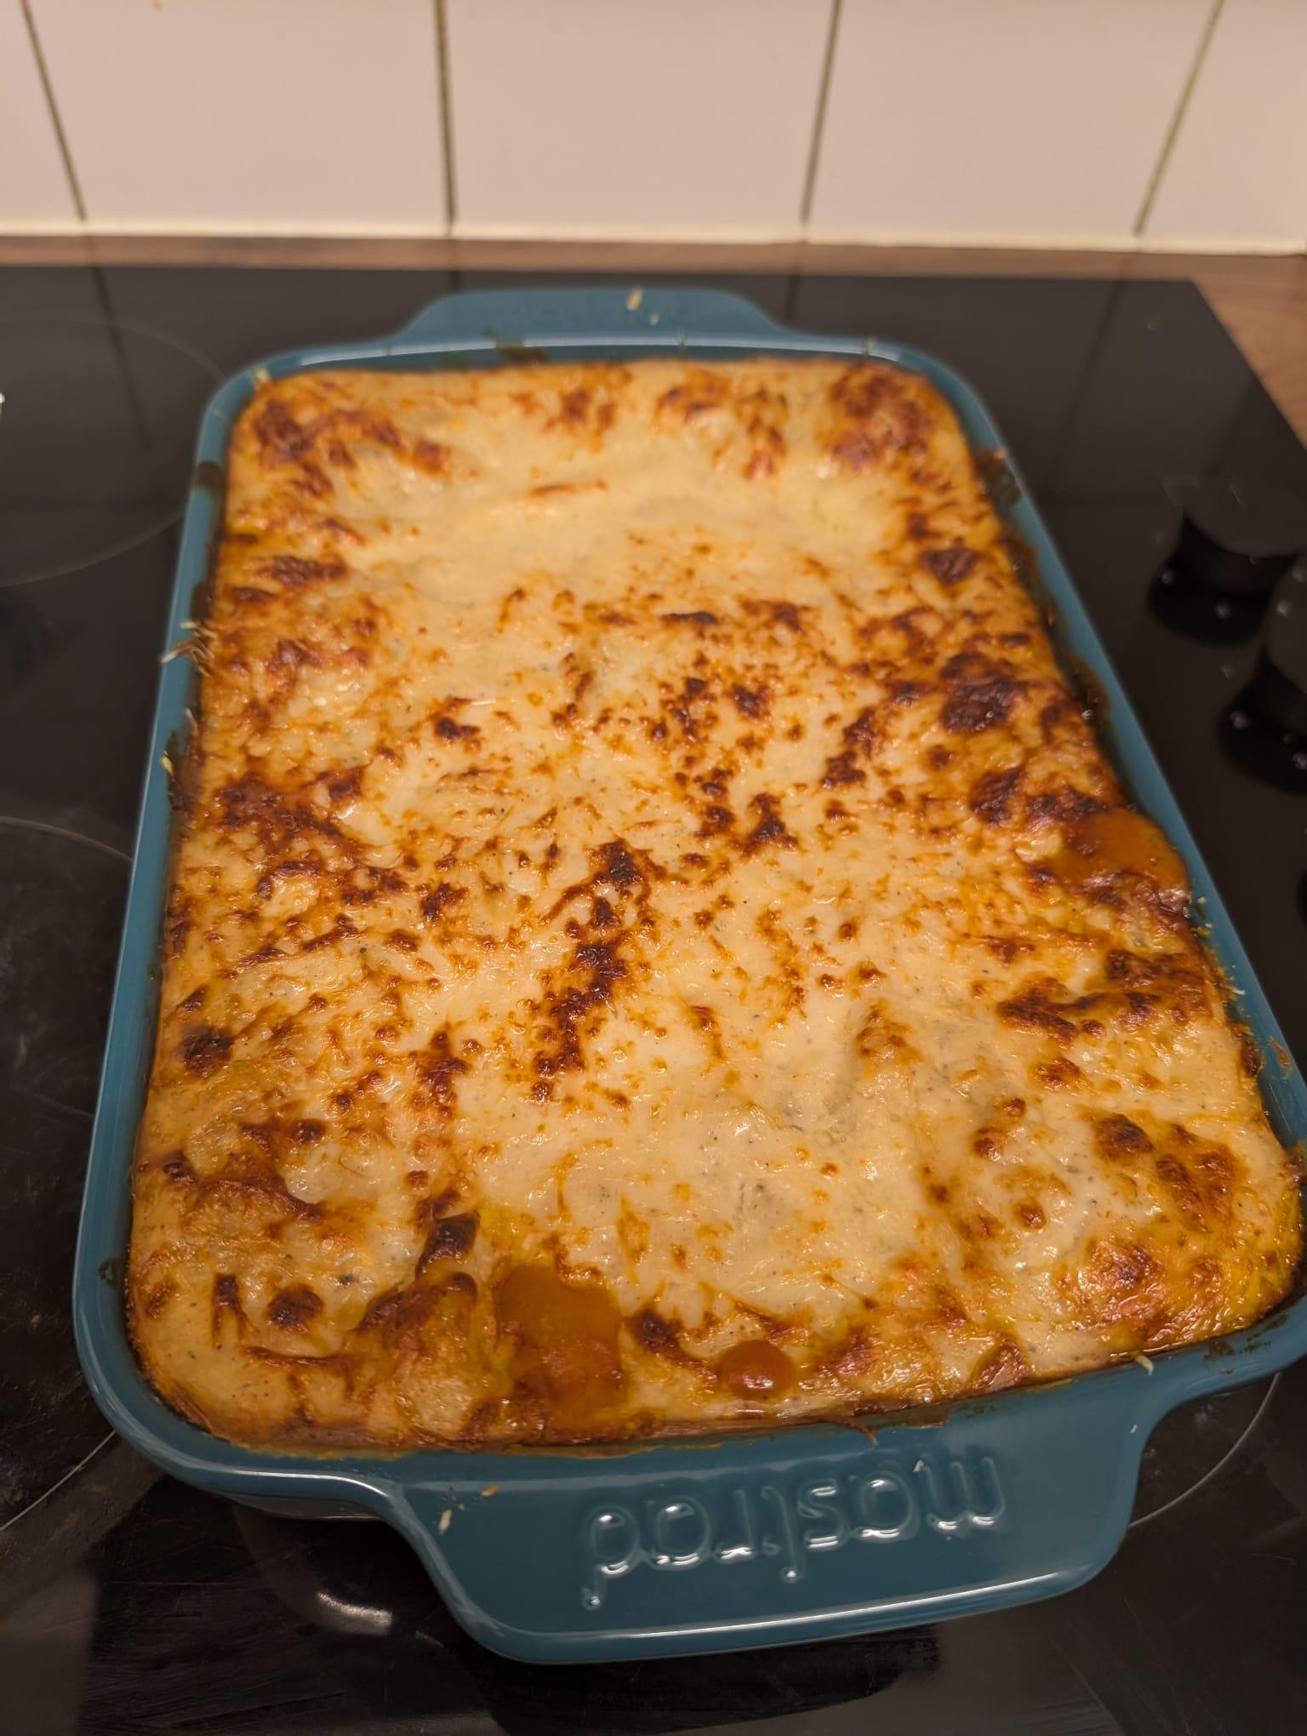
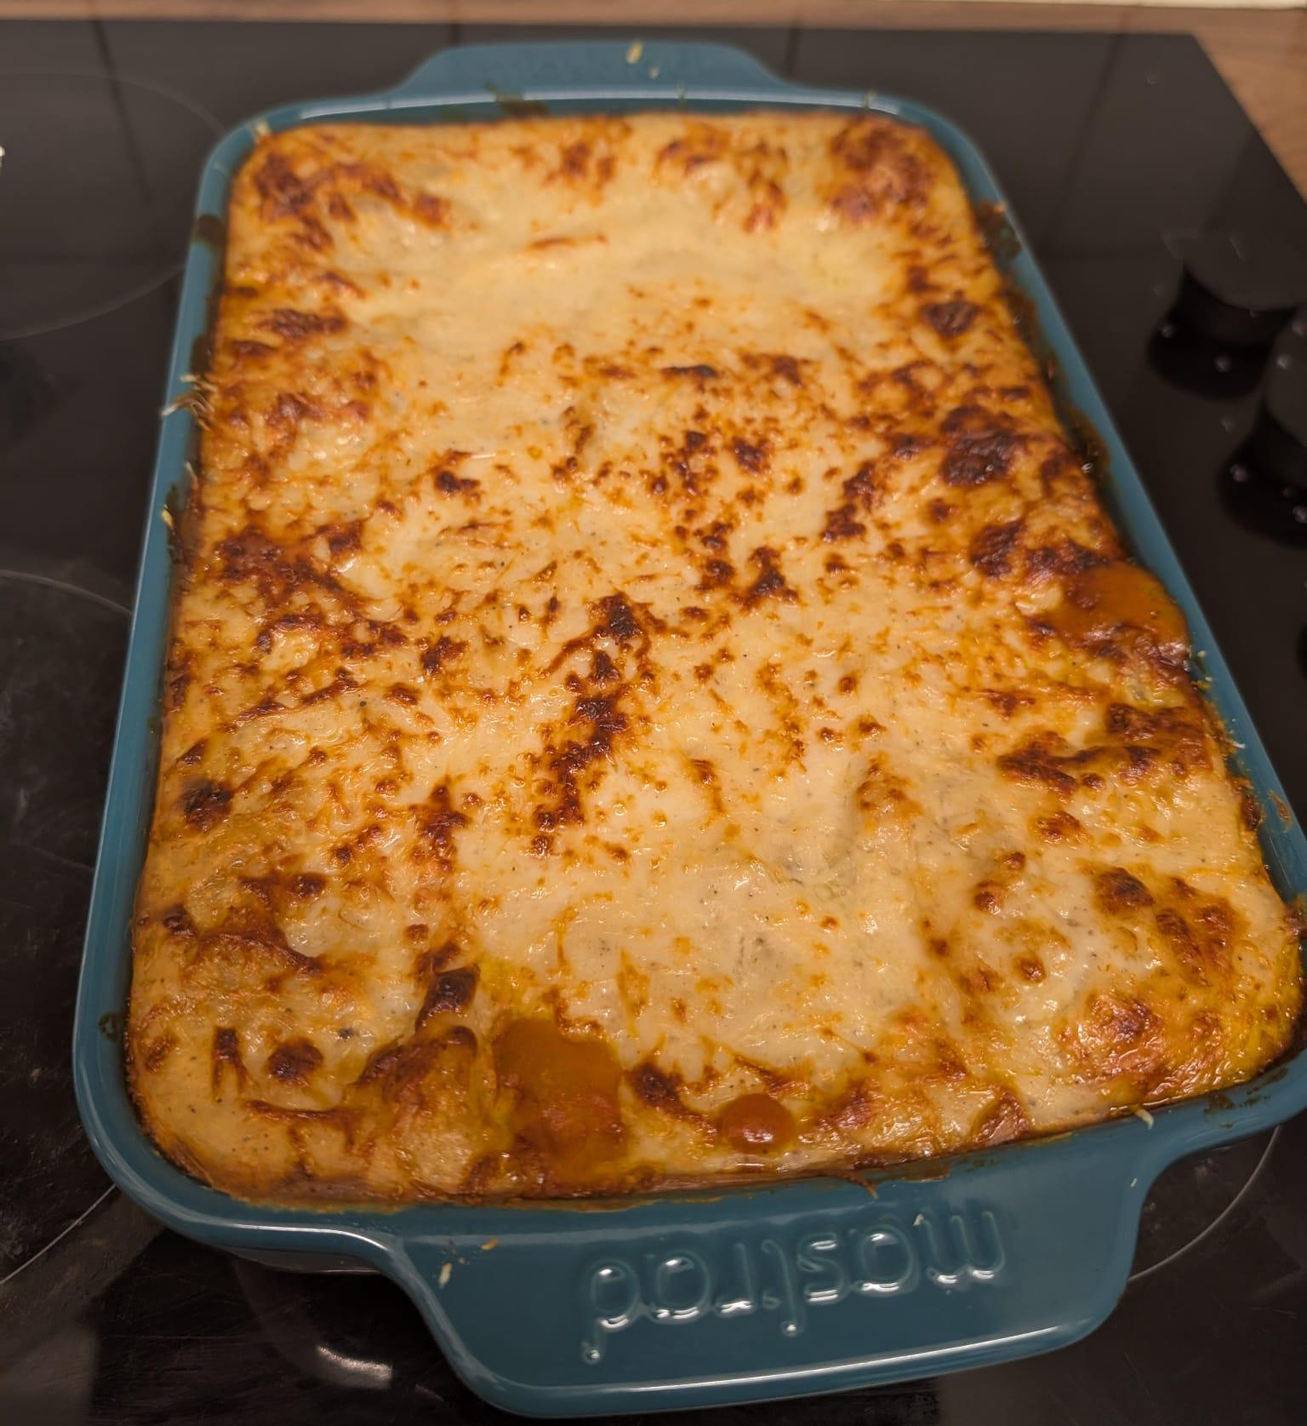
feat: Add new recipes, publication images, a Christmas tree post, and update image styling and about page content.

diff --git a/_sass/_base.scss b/_sass/_base.scss
@@ -1513,3 +1513,7 @@ figure.cover {
 mjx-container[jax="CHTML"][display="true"] {
   overflow-x: auto;
 }
+
+.object-fit-cover {
+  object-fit: cover;
+}

diff --git a/_recipes/pulled_pork.md b/_recipes/pulled_pork.md
@@ -1,10 +1,98 @@
 ---
 layout: page
-title: Pulled pork
-description: Braised pork shoulder with a sweet and spicy glaze.
-img: 
+title: Beer-Braised Gochujang Pulled Pork
+description: A fusion pulled pork recipe combining Korean fermented chili paste and beer for a savory, sticky glaze, braised with sweet potatoes.
+img: assets/img/recipes/pulled_pork/burger.jpg
 importance: 1
 category: main
 related_publications: false
 
 ---
+
+This is my recipe for *Beer-Braised Gochujang Pulled Pork*, which braises a pork shoulder with a Korean fermented chili paste (*Gochujang*) for spice and depth, and beer. Braising it for 3+ hours makes the collagen break down and creates a tender meat that pulls apart easily. The resulting pulled pork works great in burgers (very juicy), with rice, or even cold. 
+
+<div class="row justify-content-center">
+    <div class="col-auto mt-3 mt-md-0">
+        {% include figure.liquid loading="eager" path="assets/img/recipes/pulled_pork/side.jpeg" title="Pork shoulder" class="img-fluid rounded z-depth-1 object-fit-cover" min-height="250px" max-height="250px" width="auto" %}
+    </div>
+    <div class="col-auto mt-3 mt-md-0">
+        {% include figure.liquid loading="eager" path="assets/img/recipes/pulled_pork/cooked.jpeg" title="Braised pork shoulder" class="img-fluid rounded z-depth-1 object-fit-cover" min-height="250px" max-height="250px" width="auto" %}
+    </div>
+</div>
+<div class="caption">
+    Pork shoulder being braised.
+</div>
+
+## Ingredients
+
+### The Meat & Braise
+- 1.5kg Pork shoulder Joint (skin removed, reserved for crackling)
+- 33cl Beer (Lager, Amber Ale, or Pale Ale)
+- 2 large onions (sliced thick)
+- 2 large sweet potatoes (peeled and cut into large chunks)
+- Fat for searing
+- Salt and pepper
+- Stock (optional)
+
+### The Marinade
+- 4 tbsp Gochujang paste
+- 3 tbsp Honey
+- 3 tbsp Soy Sauce
+- Garlic (minced)
+- Ginger (grated)
+
+### Optional Serving Sides
+- Brioche buns or white rolls
+- Tomato slices, salad
+- Barbecue sauce
+
+## Directions
+
+### Prep & Sear
+1. Preheat the oven to 160°C
+2. Remove the skin/rind from the pork joint. Set the skin aside.
+3. Season the bare meat with salt and pepper.
+4. Heat fat in a heavy-bottomed pot that goes into the oven, or in a pan. Sear the meat on all sides until well-browned. Remove meat and set aside.
+
+### The Braise
+1. In the same pot, add the sliced onions. Fry for 3-4 minutes in the rendered pork fat.
+2. Deglaze with half of the beer. 
+3. In a bowl, mix together the Gochujang, honey, soy sauce, garlic, and ginger.
+4. Rub **half** of the marinade directly onto the seared pork meat. Cover everything.
+5. Stir the **other half** of the marinade into the beer and onions in the pot.
+6. Return the pork to the pot, or put it in an oven-safe pot. Add the onions and braising liquid. 
+7. Add the rest of the beer, and complete with stock to cover half of the meat.
+8. Cook in the oven for an initial **2 hours**. Check regularly to make sure the pork doesn't dry out. Flip it every ~30 minutes.
+
+### Adding the Sweet Potato
+1. After 2 hours, remove the pot from the oven.
+2. Add the sweet potato chunks around the meat, trying to submerge them in the liquid as much as possible.
+3. Cover and return to the oven for 1 to 2 more hours. 
+4. Check if the pork is tender. If needed, separate the meat into large chunks and add to the pot to get everything covered in liquid. 
+5. The dish is ready when the meat pulls apart easily with a fork and the potatoes are tender.
+
+### The Finish (Glaze)
+1. Remove the meat and the sweet potato chunks from the pot. Set them aside. 
+2. Place the pot with the braising liquid back on the stove over high heat.
+3. Boil rapidly to reduce the liquid into a thick glaze. Add a slurry (1 tbsp corn starch + a bit of cold water, mixed well) if needed. 
+4. Shred the pork using two forks, remove hard or chewy chunks.
+5. Pour the reduced liquid with the shredded meat and stir well.
+6. Serve in burgers with barbecue sauce, lettuce, tomato, and brioche buns.
+
+<div class="row justify-content-center">
+    <div class="col-auto mt-3 mt-md-0">
+        {% include figure.liquid loading="eager" path="assets/img/recipes/pulled_pork/pulled.jpeg" title="Pulled pork" class="img-fluid rounded z-depth-1 object-fit-cover" min-height="250px" max-height="250px" width="auto" %}
+    </div>
+    <div class="col-auto mt-3 mt-md-0">
+        {% include figure.liquid loading="eager" path="assets/img/recipes/pulled_pork/burger.jpeg" title="Braised pork shoulder" class="img-fluid rounded z-depth-1 object-fit-cover" min-height="250px" max-height="250px" width="auto" %}
+    </div>
+</div>
+<div class="caption">
+    Pulled pork and resulting burger.
+</div>
+
+
+### Bonus: The skin
+1. Take the skin, score it deeply, and salt it generously.
+2. Place on a baking tray on the bottom shelf of the oven during the last hour of the pork cooking time.
+3. For the final 15-20 minutes, increase oven heat to 220°C (remove the pork pot first) to blister the skin into crispy crackling.

diff --git a/_recipes/chanteclair.md b/_recipes/chanteclair.md
@@ -1,7 +1,7 @@
 ---
 layout: page
 title: Chanteclair
-description: A French cake from Toulon with meringues and coffee ice cream. 
+description: A frozen French dessert from Toulon with meringues and coffee ice cream. 
 img: assets/img/recipes/chanteclair/final.jpg
 importance: 1
 category: dessert
@@ -9,8 +9,78 @@ related_publications: false
 
 ---
 
+The [Chanteclair](https://patisserie-chanteclair.fr/fr/page/le-gateau-chanteclair) was created in the 1930's by M. Calvi, a pastry chef from Toulon, France. It takes its name from the ["Chantecler" play](https://en.wikipedia.org/wiki/Chantecler_(play)) by Edmond Rostand, hence why it features a rooster on the top. While the official recipe is secret, I have spent countless holidays in Toulon as a kid and have then tried to recreate that childhood favorite at home.
+This is my best attempt at it.
+
+
 <div class="row">
     <div class="col-sm mt-3 mt-md-0">
         {% include figure.liquid loading="eager" path="assets/img/recipes/chanteclair/final.jpg" title="Chanteclair" class="img-fluid rounded z-depth-1" %}
     </div>
 </div>
+
+
+## Ingredients (~10 servings)
+
+### Meringue Layers
+
+* 128g egg whites (approx. 4 large eggs)
+* 128g extra-fine granulated sugar
+* 128g icing sugar (powdered sugar)
+
+### Mocha Cream
+
+* 1L heavy liquid cream (minimum 30% fat)
+* 100g icing sugar (can be reduced for a less sweet profile)
+* 16g coffee extract or very strong coffee. I use 4-5 tsp of Nescafé in a bit of hot water, then let it cool down.
+
+### Decoration & Assembly
+
+* 160g pralin or crushed hazelnuts
+* Icing sugar (for dusting)
+* 20cm [springform pan](https://en.wikipedia.org/wiki/Springform_pan), a pastry ring, or a silicone mold
+
+## Directions
+
+### Meringue
+
+1. Preheat your oven to 95°C.
+2. Begin whipping the egg whites, gradually increasing the speed.
+3. Once the whites start to firm up, add 1/3 of the fine sugar.
+4. Continue whisking at high speed and incorporate the remaining 2/3 of the fine sugar until the meringue is stiff and glossy.
+5. Stop the mixer and fold in the icing sugar in three stages (1/3 at a time) using a spatula.
+6. Use a piping bag to create two circular disks. Pipe them almost to the edge of your 20cm mold dimensions, keeping them roughly 1.5cm thick. 
+7. Bake for 2-3 hours. Periodically open the oven door slightly to allow moisture to escape. If piping extra thick layers, increase the baking time accordingly to ensure they are fully dried.
+
+### Mocha Cream
+
+1. Ensure the heavy cream is very cold before starting.
+2. Whip the cream into a firm Chantilly.
+3. Add the icing sugar and whisk briefly to incorporate.
+4. Gently fold in the coffee extract or concentrated coffee until the color and flavor are uniform.
+
+### Assembly
+
+1. Put a sheet of parchment paper in the bottom of your mold to help with the removal.
+2. Place the first meringue disk at the bottom of the ring. Chop the edges to make it fit, keeping 0.5cm between the meringue and the mould.
+3. Spread half of the mocha cream over the meringue, smoothing it to the edges. Make sure it reaches the edges of the mold.
+4. Place the second meringue disk on top, press it down gently to make sure it's well sealed with the first layer.
+5. Cover with the remaining mocha cream and level the top. Again, make sure it reaches the edges of the mold around the meringue. 
+6. Transfer to the freezer for several hours until completely set.
+7. Once frozen, remove the ring. 
+8. Decorate the top with the pralin/crushed hazelnuts and a final dusting of icing sugar. Use a rooster cutout to decorate with the traditional rooster on top.
+9. Serve cold, but take it out of the freezer a few minutes before serving to let it soften slightly.
+
+
+<div class="row justify-content-center">
+    <div class="col-auto mt-3 mt-md-0">
+        {% include figure.liquid loading="eager" path="assets/img/recipes/chanteclair/cut.jpeg" title="Open Chanteclair" class="img-fluid rounded z-depth-1 object-fit-cover" min-height="250px" max-height="250px" width="auto" %}
+    </div>
+    <div class="col-auto mt-3 mt-md-0">
+        {% include figure.liquid loading="eager" path="assets/img/recipes/chanteclair/slice.jpeg" title="Slice of Chanteclair" class="img-fluid rounded z-depth-1 object-fit-cover" min-height="250px" max-height="250px" width="auto" %}
+    </div>
+</div>
+<div class="caption">
+    Chanteclair open and sliced after freezing. You can see 2 layers of meringue, covered in mocha cream.
+</div>
+

diff --git a/_recipes/st_honore.md b/_recipes/st_honore.md
@@ -70,15 +70,15 @@ related_publications: false
 2. Cook until the mixture reaches a light golden color.
 3. Remove from heat immediately.
 
-<div class="row">
-    <div class="col-sm-7 mt-3 mt-md-0">
-        {% include figure.liquid loading="eager" path="assets/img/recipes/st_honore/pipe.jpeg" title="Pipe choux pastry" class="img-fluid rounded z-depth-1" %}
+<div class="row justify-content-center">
+    <div class="col-auto mt-3 mt-md-0">
+        {% include figure.liquid loading="eager" path="assets/img/recipes/st_honore/pipe.jpeg" title="Pipe choux pastry" class="img-fluid rounded z-depth-1 object-fit-cover" min-height="250px" max-height="250px" width="auto" %}
     </div>
-    <div class="col-sm-2 mt-3 mt-md-0">
-        {% include figure.liquid loading="eager" path="assets/img/recipes/st_honore/choux.jpeg" title="Cooked choux" class="img-fluid rounded z-depth-1" %}
+    <div class="col-auto mt-3 mt-md-0">
+        {% include figure.liquid loading="eager" path="assets/img/recipes/st_honore/choux.jpeg" title="Cooked choux" class="img-fluid rounded z-depth-1 object-fit-cover" min-height="250px" max-height="250px" width="auto" %}
     </div>
-    <div class="col-sm-2 mt-3 mt-md-0">
-        {% include figure.liquid loading="eager" path="assets/img/recipes/st_honore/choux_caramel.jpeg" title="Choux with caramel" class="img-fluid rounded z-depth-1" %}
+    <div class="col-auto mt-3 mt-md-0">
+        {% include figure.liquid loading="eager" path="assets/img/recipes/st_honore/choux_caramel.jpeg" title="Choux with caramel" class="img-fluid rounded z-depth-1 object-fit-cover" min-height="250px" max-height="250px" width="auto" %}
     </div>
 </div>
 <div class="caption">
@@ -105,12 +105,12 @@ related_publications: false
 3. Bake for 30-35 minutes at 180°C.
 4. Dust with icing sugar after the first 20 minutes of baking.
 
-<div class="row">
-    <div class="col-sm-6 mt-3 mt-md-0">
-        {% include figure.liquid loading="eager" path="assets/img/recipes/st_honore/base.jpeg" title="Base" class="img-fluid rounded z-depth-1" %}
+<div class="row justify-content-center">
+    <div class="col-auto mt-3 mt-md-0">
+        {% include figure.liquid loading="eager" path="assets/img/recipes/st_honore/base.jpeg" title="Base" class="img-fluid rounded z-depth-1 object-fit-cover" min-height="250px" max-height="250px" width="auto" %}
     </div>
-    <div class="col-sm-6 mt-3 mt-md-0">
-        {% include figure.liquid loading="eager" path="assets/img/recipes/st_honore/add_cream.jpeg" title="Base with diplomat cream and choux." class="img-fluid rounded z-depth-1" %}
+    <div class="col-auto mt-3 mt-md-0">
+        {% include figure.liquid loading="eager" path="assets/img/recipes/st_honore/add_cream.jpeg" title="Base with diplomat cream and choux." class="img-fluid rounded z-depth-1 object-fit-cover" min-height="250px" max-height="250px" width="auto" %}
     </div>
 </div>
 <div class="caption">
@@ -133,12 +133,12 @@ related_publications: false
 5. Using a Saint Honoré nozzle, pipe the mascarpone chantilly over the diplomat cream base to finish the cake.
 
 
-<div class="row">
-    <div class="col-sm-6 mt-3 mt-md-0">
-        {% include figure.liquid loading="eager" path="assets/img/recipes/st_honore/final.jpeg" title="St Honoré with chantilly piped on top." class="img-fluid rounded z-depth-1" %}
+<div class="row justify-content-center">
+    <div class="col-auto mt-3 mt-md-0">
+        {% include figure.liquid loading="eager" path="assets/img/recipes/st_honore/final.jpeg" title="St Honoré with chantilly piped on top." class="img-fluid rounded z-depth-1 object-fit-cover" min-height="250px" max-height="250px" width="auto" %}
     </div>
-    <div class="col-sm-6 mt-3 mt-md-0">
-        {% include figure.liquid loading="eager" path="assets/img/recipes/st_honore/slice.jpeg" title="St Honoré sliced." class="img-fluid rounded z-depth-1" %}
+    <div class="col-auto mt-3 mt-md-0">
+        {% include figure.liquid loading="eager" path="assets/img/recipes/st_honore/slice.jpeg" title="St Honoré sliced." class="img-fluid rounded z-depth-1 object-fit-cover" min-height="250px" max-height="250px" width="auto" %}
     </div>
 </div>
 <div class="caption">

diff --git a/_recipes/macarons.md b/_recipes/macarons.md
@@ -65,12 +65,12 @@ While simple in apparence, macarons require a lot of precision and attention to 
 7. Continue stirring until the mixture thickens significantly, ensuring it does not burn.
 8. Remove from heat and allow to cool completely before piping.
 
-<div class="row">
-    <div class="col-sm-6 mt-3 mt-md-0">
-        {% include figure.liquid loading="eager" path="assets/img/recipes/macarons/lemon.jpeg" title="Base" class="img-fluid rounded z-depth-1" %}
+<div class="row justify-content-center">
+    <div class="col-auto mt-3 mt-md-0">
+        {% include figure.liquid loading="eager" path="assets/img/recipes/macarons/lemon.jpeg" title="Base" class="img-fluid rounded z-depth-1 object-fit-cover" min-height="250px" max-height="250px" width="auto" %}
     </div>
-    <div class="col-sm-6 mt-3 mt-md-0">
-        {% include figure.liquid loading="eager" path="assets/img/recipes/macarons/mandarin.jpeg" title="Base with diplomat cream and choux." class="img-fluid rounded z-depth-1" %}
+    <div class="col-auto mt-3 mt-md-0">
+        {% include figure.liquid loading="eager" path="assets/img/recipes/macarons/mandarin.jpeg" title="Base with diplomat cream and choux." class="img-fluid rounded z-depth-1 object-fit-cover" min-height="250px" max-height="250px" width="auto" %}
     </div>
 </div>
 <div class="caption">
@@ -99,12 +99,12 @@ Follow steps similar to the lemon cream, but use the puree instead of the juice.
 2. Poach the figs in white wine with spices and sugar.
 3. Blend the figs until smooth, adding a little wine if necessary to reach a smooth consistency.
 
-<div class="row">
-    <div class="col-sm-6 mt-3 mt-md-0">
-        {% include figure.liquid loading="eager" path="assets/img/recipes/macarons/fig.jpeg" title="Base" class="img-fluid rounded z-depth-1" %}
+<div class="row justify-content-center">
+    <div class="col-auto mt-3 mt-md-0">
+        {% include figure.liquid loading="eager" path="assets/img/recipes/macarons/fig.jpeg" title="Base" class="img-fluid rounded z-depth-1 object-fit-cover" min-height="250px" max-height="250px" width="auto" %}
     </div>
-    <div class="col-sm-6 mt-3 mt-md-0">
-        {% include figure.liquid loading="eager" path="assets/img/recipes/macarons/chocolate.jpeg" title="Base with diplomat cream and choux." class="img-fluid rounded z-depth-1" %}
+    <div class="col-auto mt-3 mt-md-0">
+        {% include figure.liquid loading="eager" path="assets/img/recipes/macarons/chocolate.jpeg" title="Base with diplomat cream and choux." class="img-fluid rounded z-depth-1 object-fit-cover" min-height="250px" max-height="250px" width="auto" %}
     </div>
 </div>
 <div class="caption">

diff --git a/_recipes/lasagna.md b/_recipes/lasagna.md
@@ -2,7 +2,7 @@
 layout: page
 title: Lasagna al ragu
 description: A classic Italian pasta dish made with ground beef, tomato sauce, and cheese.
-img: 
+img: assets/img/recipes/lasagna/cooked.jpeg
 importance: 1
 category: main
 related_publications: false
@@ -12,6 +12,20 @@ related_publications: false
 This is my recipe for *lasagna al ragu*, the Italian pasta dish made with layers of pasta sheets, ragu, and bechamel sauce.
 It is based on a traditional *sofrito* (mirepoix) and beef / pork ragu, but with smoked pork and a little cardamom for more depth and complexity. I also add a slurry of corn starch to thicken the ragu. Season the ragu and bechamel a bit stronger than you would normally, as the lasagna is baked for a long time.
 Quantities are eyeballed for 1 large lasagna for 8+ people, adapt based on your taste. 
+
+
+<div class="row justify-content-center">
+    <div class="col-auto mt-3 mt-md-0">
+        {% include figure.liquid loading="eager" path="assets/img/recipes/lasagna/uncooked.jpeg" title="Base with diplomat cream and choux." class="img-fluid rounded z-depth-1 object-fit-cover" min-height="250px" max-height="250px" width="auto" %}
+    </div>
+    <div class="col-auto mt-3 mt-md-0">
+        {% include figure.liquid loading="eager" path="assets/img/recipes/lasagna/lasagna_two.jpeg" title="Base" class="img-fluid rounded z-depth-1 object-fit-cover" min-height="250px" max-height="250px" width="auto" %}
+    </div>
+</div>
+<div class="caption">
+    Lasagna before and after baking, with parmesan replaced by grated gruyère.
+</div>
+
 
 ## Ingredients
 
@@ -69,3 +83,9 @@ Quantities are eyeballed for 1 large lasagna for 8+ people, adapt based on your 
 5. For the final layer, place pasta sheets and cover entirely with the remaining bechamel (no ragu on top).
 6. Sprinkle the 100g of parmesan evenly over the top.
 7. Bake at 180°C for 40 minutes, or until the top is golden brown and the pasta is tender.
+
+<div class="row justify-content-center">
+    <div class="col-auto mt-3 mt-md-0">
+        {% include figure.liquid loading="eager" path="assets/img/recipes/lasagna/lasagna_side.jpeg" title="Lasagna" class="img-fluid rounded z-depth-1 object-fit-cover" min-height="250px" max-height="250px" width="auto" %}
+    </div>
+</div>

diff --git a/_pages/about.md b/_pages/about.md
@@ -32,6 +32,8 @@ My research is dedicated to understanding how intelligence emerges in complex sy
 
 My work ranges from theoretical contributions in evolutionary methods to practical applications in adaptive robotics, motivated by a single question: **how can we design learning processes that allow artificial agents to discover diverse, high-performing skills on their own**? 
 
+This work is supported by 14 years of programming experience in various languages, from C to Python, with a strong focus on [Jax](https://github.com/jax-ml/jax) in the last 3 years. This includes being a core contributor to [QDax](https://github.com/adaptive-intelligent-robotics/QDax) and [Kheperax](https://github.com/adaptive-intelligent-robotics/Kheperax), which support fast and scalable experimentation for Quality-Diversity methods.
+
 I also love cooking, so you can find some of my personal recipes in the [Cooking](recipes/) section. Feel free to try them out and let me know if you like them!
 
 <!-- Write your biography here. Tell the world about yourself. Link to your favorite [subreddit](http://reddit.com). You can put a picture in, too. The code is already in, just name your picture `prof_pic.jpg` and put it in the `img/` folder.

diff --git a/_pages/blog.md b/_pages/blog.md
@@ -24,7 +24,7 @@ pagination:
 {% if blog_name_size > 0 or blog_description_size > 0 %}
 
   <div class="header-bar">
-    <h1>{{ site.blog_name }}</h1>
+    <!-- <h1>{{ site.blog_name }}</h1> -->
     <h2>{{ site.blog_description }}</h2>
   </div>
   {% endif %}

diff --git a/_pages/dropdown.md b/_pages/dropdown.md
@@ -5,9 +5,9 @@ nav: true
 nav_order: 8
 dropdown: true
 children:
+  - title: Blog
+    permalink: /blog/
   - title: Cooking
     permalink: /recipes/
   # - title: divider
-  # - title: Blog
-  #   permalink: /blog/
 ---

diff --git a/_posts/2025-12-25-christmas_tree.md b/_posts/2025-12-25-christmas_tree.md
@@ -1,0 +1,11 @@
+---
+layout: post
+title: Custom tree lights
+date: 2025-12-25 00:00:00
+description: Can your Christmas tree run python code?
+tags: code
+categories: fun
+featured: true
+---
+
+Text

diff --git a/_projects/christmas_tree.md b/_projects/christmas_tree.md
@@ -6,4 +6,5 @@ img:
 importance: 1
 category: fun
 related_publications: false
+redirect: /blog/2025/christmas_tree/
 ---
